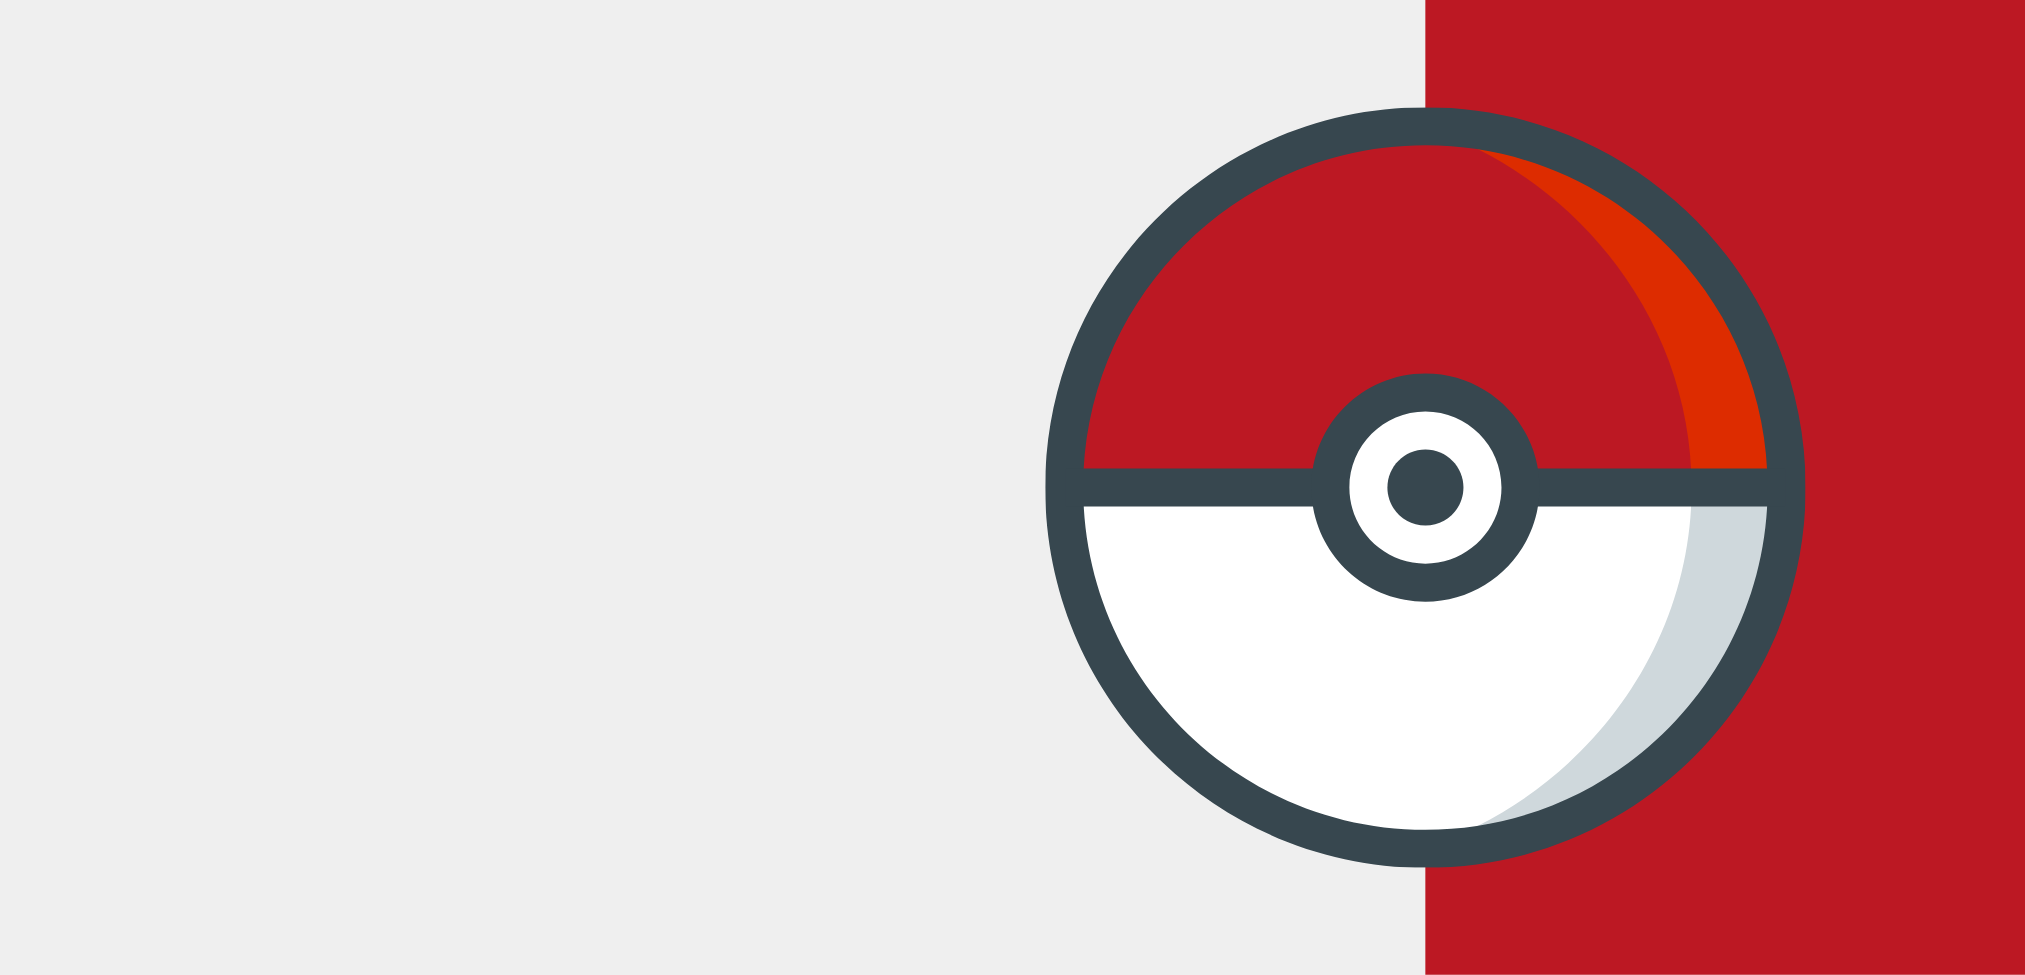
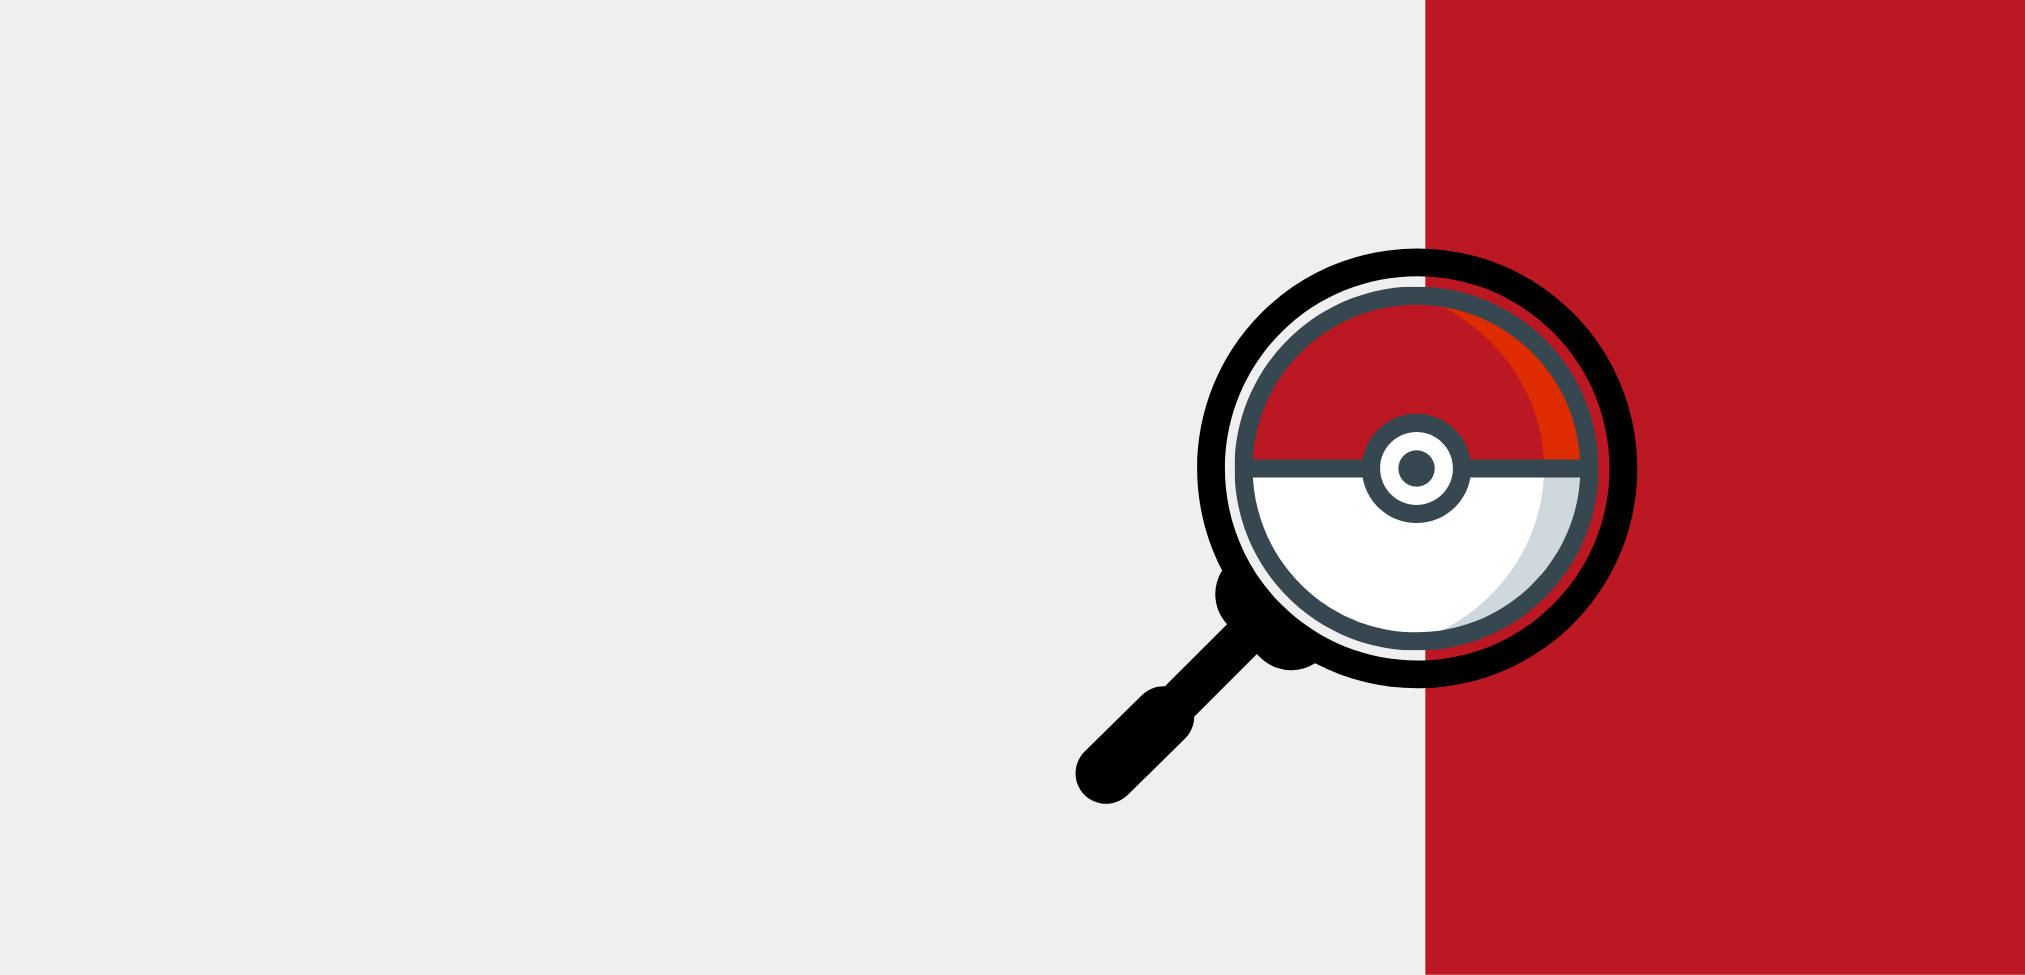
Iimprovements in the main section

Changed region(s): [[0.4978, 0.0923, 0.9022, 0.8923]]

diff --git a/src/style.css b/src/style.css
@@ -16,7 +16,16 @@ html,
 body {
   margin: 0;
   height: 100%;
-  font-family: "Quattrocento Sans", sans-serif;
+
+  /* font-family: "Quattrocento Sans", sans-serif; */
+}
+
+button:focus {
+  outline: 0 !important;
+}
+
+.title {
+  font-family: "Poppins", sans-serif;
 }
 
 form {
@@ -43,10 +52,10 @@ fieldset {
   width: 43%;
 }
 
-h1 {
+/* h1 {
   margin-top: 60px;
   display: inline-block;
-}
+} */
 
 #mainSection {
   background-image: url(../src/assets/img/Entrar.png);
@@ -54,10 +63,10 @@ h1 {
   background-position: center;
   background-repeat: no-repeat;
   background-size: cover;
-  text-align: center;
-  width: 100%;
+  /* text-align: center; */
+  width: auto;
   height: 100%;
-  display: inline-block;
+  /* display: inline-block; */
 }
 
 #serch {
@@ -131,7 +140,7 @@ p i {
   cursor: pointer;
   -webkit-transition-duration: 0.1s;
   transition-duration: 0.4s;
-  font-family: Pokemon-Solid;
+
   color: rgb(12, 10, 1);
   font-size: 20px;
 }
@@ -215,13 +224,10 @@ p i {
 }
 
 .buttonNext {
-  /* border-radius: 50% 50% 50% 50%;
-  -moz-border-radius: 50% 50% 50% 50%;
-  -webkit-border-radius: 50% 50% 50% 50%; */
-  /* padding: 20px 30px 20px 30px; */
+  background-color: #bc1823;
   height: 50px;
-  width: 150px;
-  /* margin-top: 200px; */
+  width: 200px;
+  color: #ffffff;
 }
 
 .buttons-style:hover {
@@ -346,12 +352,12 @@ p i {
   }
 }
 
-.messageWelcome {
+/* .messageWelcome {
   font-family: Pokemon-Solid;
   color: rgb(12, 10, 1);
   font-size: 20px;
   margin-top: 150px;
-}
+} */
 
 .search-style {
   display: inline-block;

diff --git a/src/index.html b/src/index.html
@@ -16,17 +16,29 @@
   <link href="https://fonts.googleapis.com/css?family=Quattrocento+Sans" rel="stylesheet">
   <link rel="stylesheet" href="https://cdn.jsdelivr.net/npm/bootstrap@4.5.3/dist/css/bootstrap.min.css"
     integrity="sha384-TX8t27EcRE3e/ihU7zmQxVncDAy5uIKz4rEkgIXeMed4M0jlfIDPvg6uqKI2xXr2" crossorigin="anonymous">
+
+  <style>
+    @import url('https://fonts.googleapis.com/css2?family=Poppins:wght@700&display=swap');
+
+  </style>
 </head>
 
 <body>
-  <section id="mainSection">
-    <header id="title">
-      <!-- <img src="../src/assets/img/POKEMON.png" class="logo-style" alt="Logo Pokemon"> -->
-    </header>
+  <section id="mainSection" class=".container-fluid">
+    <div class="row align-items-center mx-0 h-100">
+      <div class="col-2">
+      </div>
+      <div class="col-4 px-4 ">
 
-    <button type="submit" id="NextButton" class="buttons-style buttonNext">Entrar</button>
+        <h1 class="title display-2 pb-4">DataDex</h1>
 
-    <p class="messageWelcome">Encuentra TODO sobre tus Pokemons!!</p>
+        <h3 class="pb-4">¡Encuentra TODO sobre tus Pokemons!</h3>
+
+        <button type="submit" id="NextButton" class="buttons-style buttonNext rounded-pill my-4">ENTRAR</button>
+      </div>
+      <div class="col-6">
+      </div>
+    </div>
   </section>
 
   <section id="serch">
